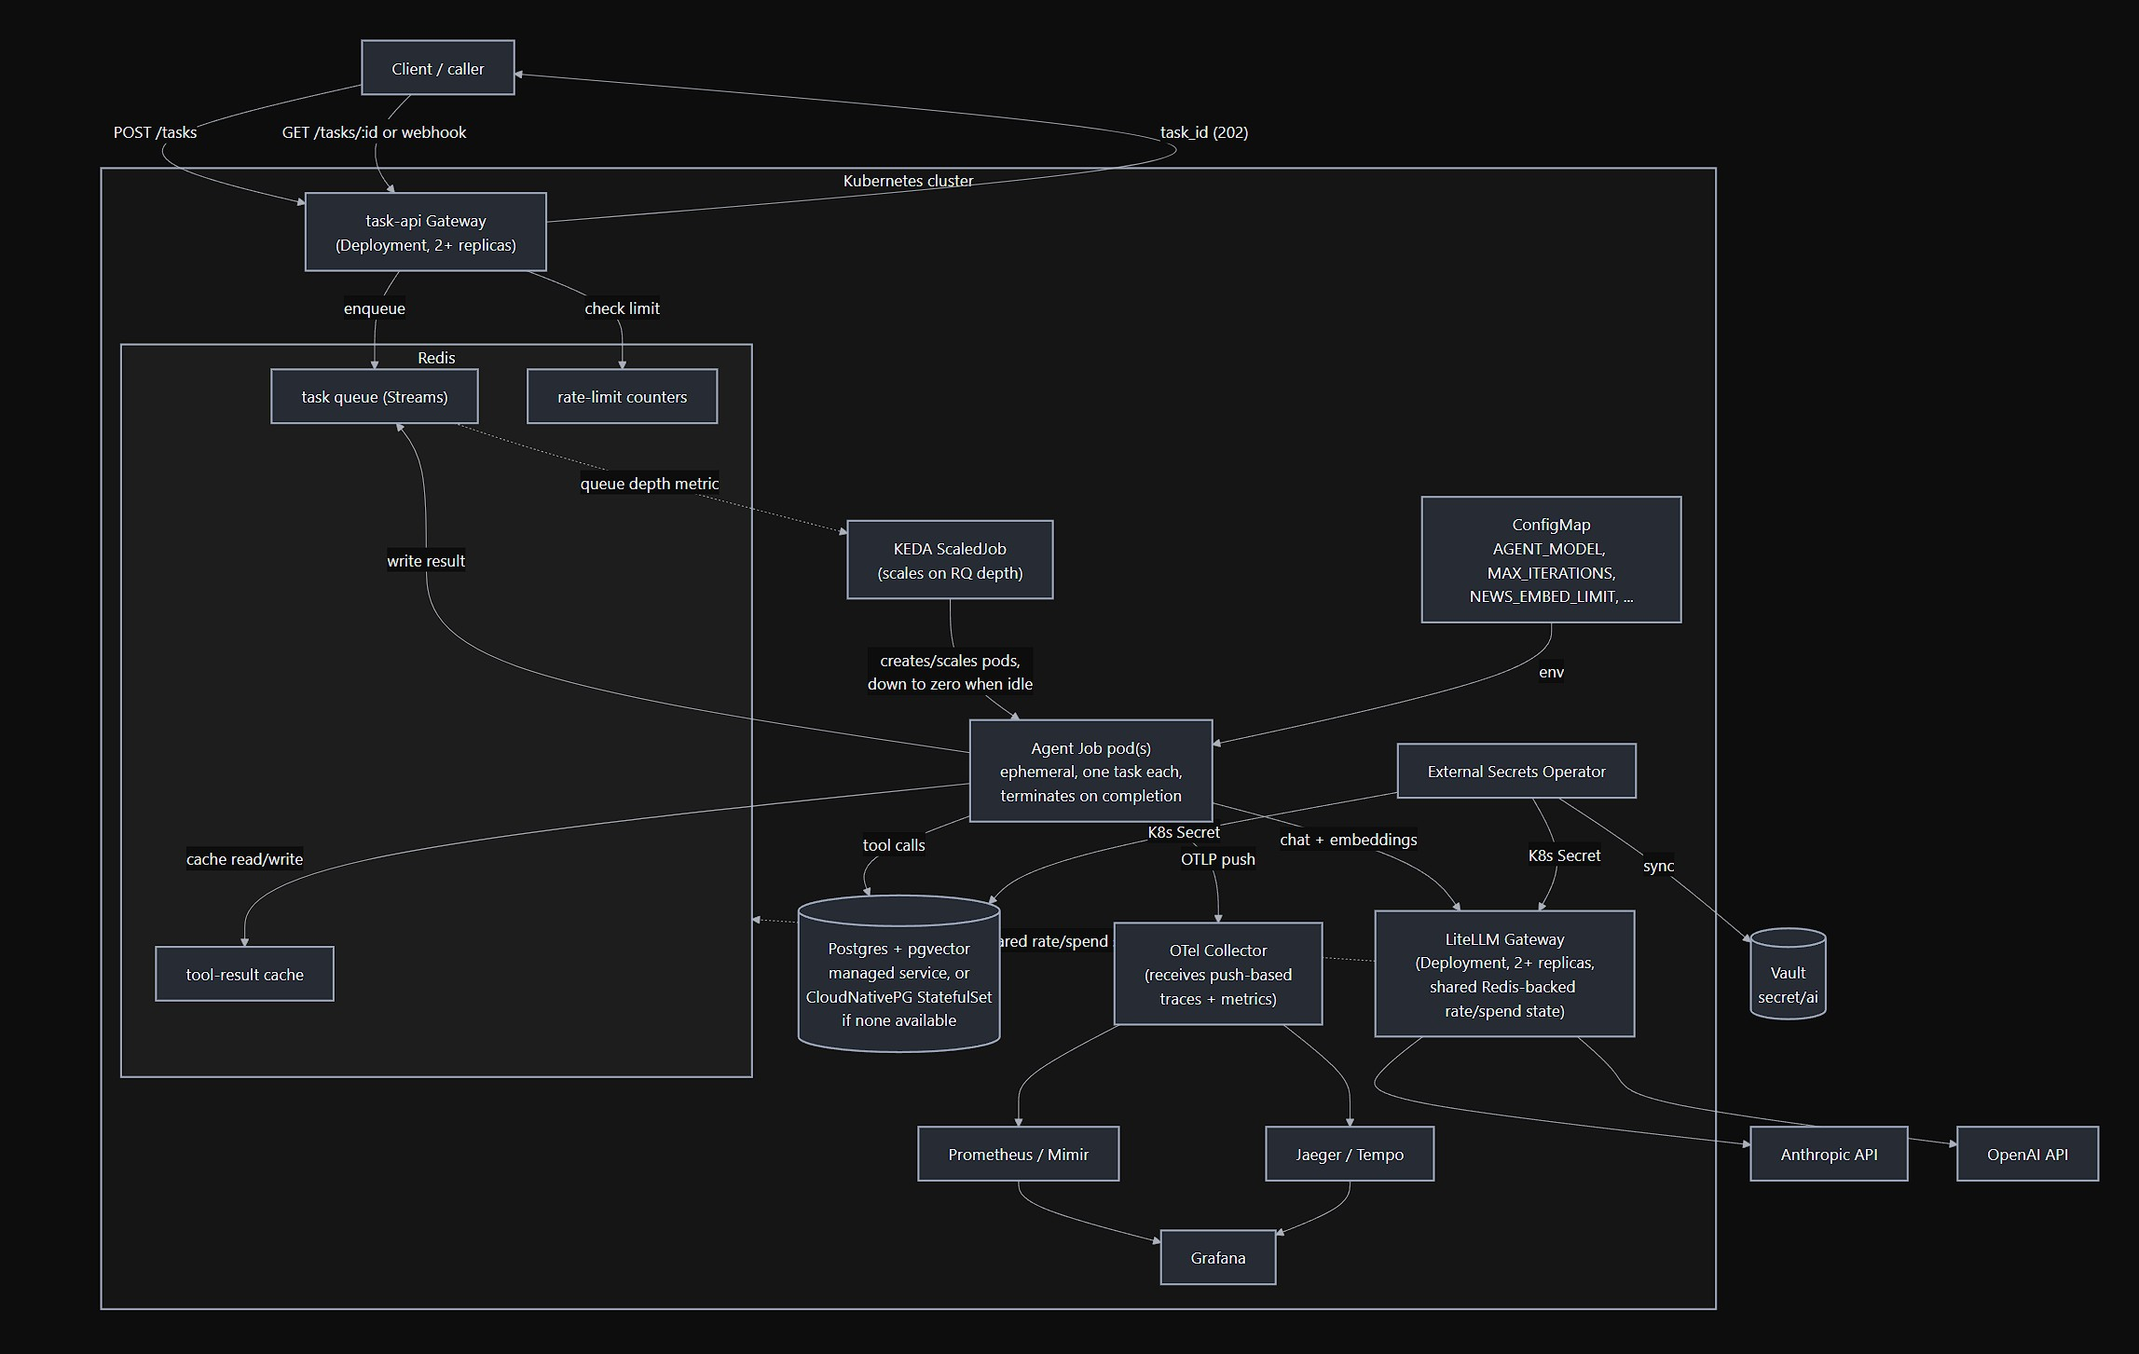
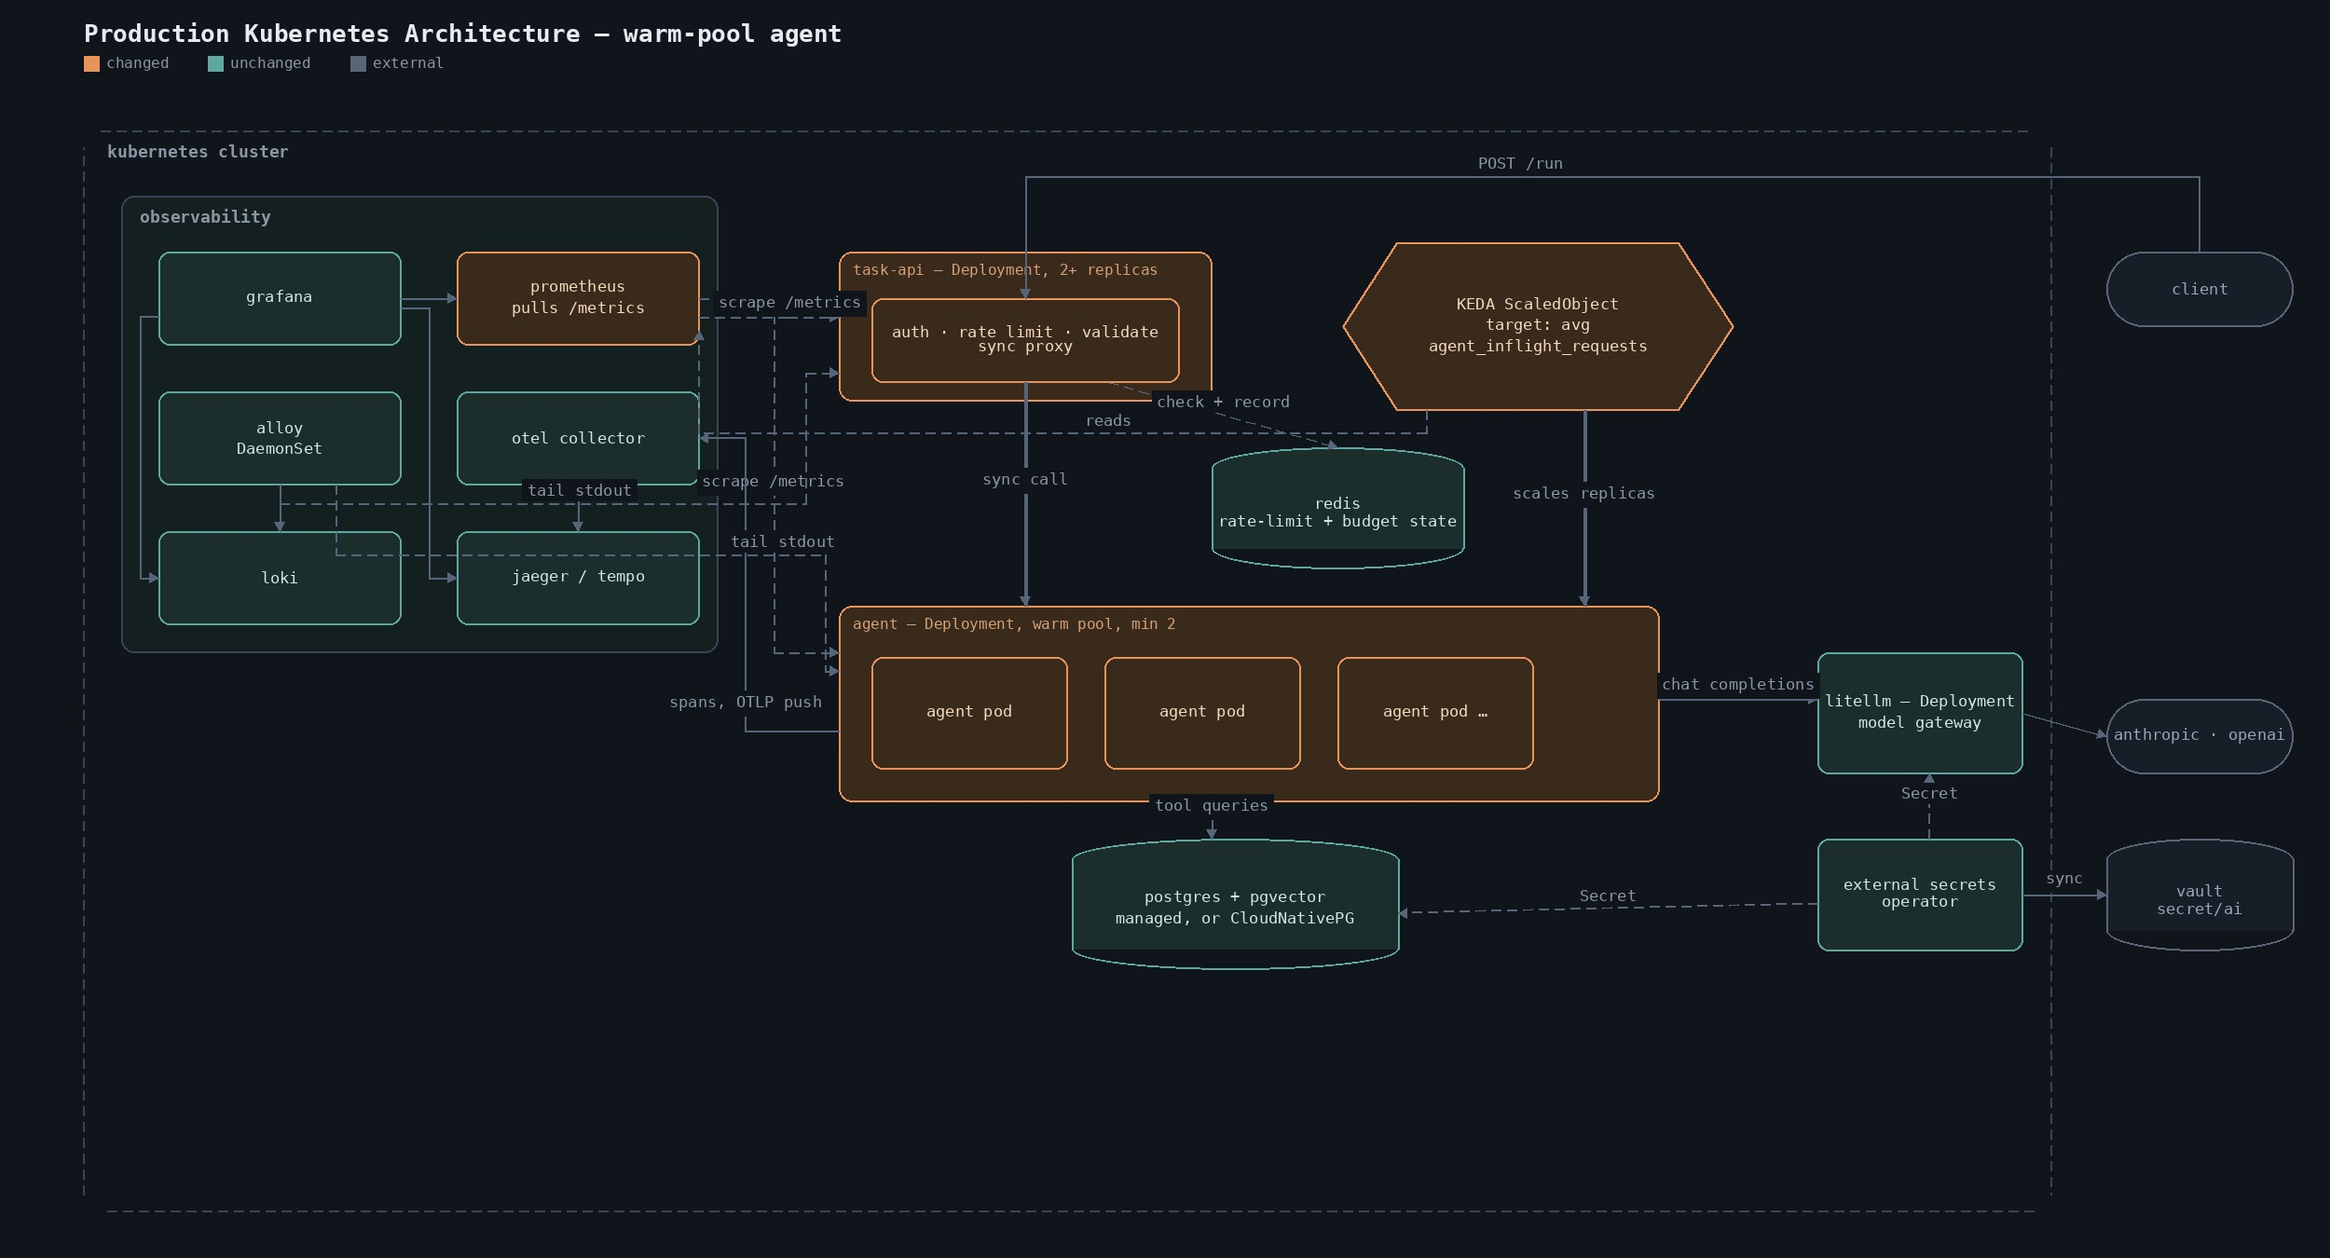
Redesign production K8s architecture around a warm agent pool
Ephemeral Job-per-task plus a Redis-queued task-api was adding real
cold-start latency per request. Replaces it with a Deployment warm pool
(min 2 replicas) autoscaled by KEDA's ScaledObject on live request
concurrency instead of queue depth, task-api simplified to a synchronous
proxy, and metrics collection reverted to Prometheus pull now that pods
are long-lived again. Regenerated the architecture diagram by hand after
the mermaid-to-image export lost every multi-line label's line break.

diff --git a/DECISIONS.md b/DECISIONS.md
@@ -60,23 +60,22 @@ toward a real production deployment.
 
 ## Production Kubernetes Architecture
 
-This section answers directly: given a real deployment target (not a single docker-compose host), what does this platform look like, and why. It supersedes the shape of the local demo in specific ways worth calling out up front — the local `agent` service is a **long-running FastAPI process** you `curl` repeatedly, because that's the simplest thing that proves the stack end-to-end in one command. In production the agent instead runs as **ephemeral, one-task-per-pod Kubernetes Jobs**, for reasons in the diagram below. These aren't in tension — the local demo optimizes for "reviewable in one command with minimal moving parts," production optimizes for "isolated, horizontally scalable, cost-proportional-to-load." Rewriting `agent_loop.py`/`tools.py` for this move is minimal: `run_task(model, task, date_from, date_to)` builds a fresh Strands `Agent` per call and holds no state across calls, which is exactly what makes it safe to run as a throwaway pod instead of a long-lived process.
->
-> **Note**: the actual Kubernetes deployment built from this section (`kubernetes/ai_stock_news_agent` in the home-lab repo) currently implements its own copy of the tool-calling loop, separate from this repo's `agent/`. The architecture described below (KEDA `ScaledJob`, `task-api`/worker split, etc.) doesn't depend on which agent-loop implementation runs inside the pod — Strands' `Agent` is just as stateless/poddable as any other — but the two copies aren't kept in sync automatically. Worth reconciling if that deployment is revisited.
+This section answers directly: given a real deployment target (not a single docker-compose host), what does this platform look like, and why. It keeps the same execution shape as the local demo on purpose — the local `agent` service is a **long-running FastAPI process** you `curl` repeatedly, and production is the same shape, just horizontally replicated and autoscaled instead of a single instance. A synchronous request/response API is the right fit here: a task is a multi-second, multi-tool-call round trip against an LLM provider, and a caller expects an answer on the connection it opened, not a poll loop. `run_task(model, task, date_from, date_to)` builds a fresh Strands `Agent` per call and holds no state across calls, which is exactly what makes it safe to serve many concurrent requests off a shared pool of identical replicas rather than isolating each one.
 
 ![Production Kubernetes architecture](k8s_architecture.jpg)
 
 | Decision | Choice | Why |
 |---|---|---|
-| Agent execution | **Ephemeral Kubernetes Job per task**, scaled by **KEDA's `ScaledJob`** watching Redis Streams queue depth, not a long-running `Deployment` + HPA | Three real wins over a persistent pool of agent replicas: (1) **isolation** — a task's entire process, including any accumulated conversation state, dies with the pod, so there's no cross-task state leakage to reason about; (2) **cost shape matches load** — KEDA scales to zero when the queue is empty, so idle time costs nothing, unlike a `Deployment` sized for peak; (3) **KEDA's `ScaledJob` is purpose-built for exactly this** (one job per queue item, scale count with backlog) — a generic HPA scales replica *count* off CPU/memory/custom metrics on a `Deployment`, which is the wrong primitive for "run N discrete units of work," not a queue-depth-driven job-per-task pattern. |
-| Task gateway (`task-api`) | Small persistent `Deployment` (2+ replicas) in front of the queue | Something has to accept HTTP, authenticate, rate-limit, and enqueue before an ephemeral Job can exist to do the work — this is the local demo's `/run` endpoint, minus the actual task execution, which moves to the Job. Returns a `task_id` immediately (202) rather than blocking — necessary once execution is async or a multi-minute multi-tool-call task would otherwise hold an HTTP connection open, which doesn't survive a load balancer's idle timeout at any real scale. |
-| Rate limiting | Redis-backed limiter (sliding window / token bucket, keyed by API key or tenant) in `task-api`, checked **before** enqueueing | Rejecting an over-limit request costs a Redis round-trip; rejecting it *after* a Job pod has already started and burned an LLM call costs real money and a scheduling slot. Cheap check first. Same Redis cluster (different key namespace) also backs LiteLLM's own shared rate-limit/spend state once LiteLLM is replicated — a single-instance LiteLLM's in-memory rate limiting stops being accurate the moment there's more than one replica. |
-| Secrets | **External Secrets Operator**, `SecretStore` pointed at this environment's Vault (`secret/ai`) | Direct K8s-native equivalent of what the local demo already does manually (`vault kv get secret/ai` → `.env`) — ESO syncs Vault paths into native `Secret` objects on an interval, so `ANTHROPIC_API_KEY`/`OPENAI_API_KEY`/DB credentials are never in a manifest, image, or ConfigMap, and rotate without a redeploy. Only `litellm` and the Postgres access layer mount these — the agent Job pods still never see provider keys directly, same isolation boundary as the local demo. |
-| Data store (pgvector) | **Managed Postgres with pgvector support if available** (RDS Postgres, AlloyDB, Cloud SQL, or similar all support the extension); **CloudNativePG-operated StatefulSet as the fallback**, not a bare StatefulSet | Self-hosting stateful Postgres (backups, WAL archiving, PITR, failover) is real, ongoing operational burden a managed service absorbs — use it when available. When it isn't (air-gapped, on-prem, or a home-lab-style environment like this one), a bare `StatefulSet` is the wrong tool because it has no leader election or automated failover built in; an operator like CloudNativePG (or Zalando's postgres-operator) provides that on top of the same StatefulSet primitive, which is what "self-hosted Postgres in k8s" should actually mean in production. |
+| Agent execution | **`Deployment` with a warm pool of replicas** (`minReplicas: 2`, never scaled to zero), horizontally autoscaled by **KEDA's `ScaledObject`** on live request concurrency, not CPU/memory | A generic CPU/memory-based autoscaler doesn't reflect real load here — the agent spends almost all of its time waiting on an LLM/tool call, not burning CPU, so CPU stays flat right up until requests start queuing. Scaling on concurrency (in-flight requests per pod) tracks actual load directly. Keeping the pool warm is deliberate: spinning up a fresh pod per task would reintroduce exactly the cold-start latency a synchronous API can't absorb, at the cost of always paying for at least `minReplicas` even at zero traffic. |
+| Autoscaling metric | KEDA's `prometheus` trigger targeting **average in-flight requests per pod** — a gauge (`agent_inflight_requests`) incremented when a task starts and decremented when it finishes | Task duration varies widely — a single fundamentals lookup finishes in a couple seconds, a multi-topic task doing several tool-call rounds takes much longer — so request *rate* doesn't map cleanly to "how loaded is a pod" the way concurrency does. `/run` is a synchronous FastAPI route served from Starlette's bounded thread pool per pod; the KEDA target sits comfortably below that ceiling so pods scale out before they start queuing internally, not after. |
+| Task gateway (`task-api`) | Small stateless `Deployment` (2+ replicas) in front of the agent pool: authenticates, rate-limits, validates, then proxies synchronously to an agent pod | Keeps auth/rate-limit logic out of the pods actually running LLM calls, and scales independently and cheaply on its own — it does no LLM work, so its capacity needs look nothing like the agent pool's. Also the natural place for request-level concerns (consistent error shaping, structured access logging) that shouldn't be duplicated inside every agent replica. |
+| Rate limiting | Redis-backed limiter (sliding window / token bucket, keyed by API key or tenant) in `task-api`, checked before the request reaches an agent pod | Rejecting an over-limit request costs a Redis round-trip; letting it through to burn an LLM call before rejecting costs real money. Cheap check first. Same Redis cluster (different key namespace) also backs LiteLLM's own shared rate-limit/spend state once LiteLLM is replicated — a single-instance LiteLLM's in-memory rate limiting stops being accurate the moment there's more than one replica. |
+| Secrets | **External Secrets Operator**, `SecretStore` pointed at this environment's Vault (`secret/ai`) | Direct K8s-native equivalent of what the local demo already does manually (`vault kv get secret/ai` → `.env`) — ESO syncs Vault paths into native `Secret` objects on an interval, so `ANTHROPIC_API_KEY`/`OPENAI_API_KEY`/DB credentials are never in a manifest, image, or ConfigMap, and rotate without a redeploy. Only `litellm` and the Postgres access layer mount these — the agent pods still never see provider keys directly, same isolation boundary as the local demo. |
+| Data store (pgvector) | **Managed Postgres with pgvector support if available** (RDS Postgres, AlloyDB, Cloud SQL, or similar all support the extension); **CloudNativePG-operated StatefulSet as the fallback**, not a bare StatefulSet | Self-hosting stateful Postgres (backups, WAL archiving, PITR, failover) is real, ongoing operational burden a managed service absorbs — use it when available. When it isn't (air-gapped, on-prem, or another self-managed environment), a bare `StatefulSet` is the wrong tool because it has no leader election or automated failover built in; an operator like CloudNativePG (or Zalando's postgres-operator) provides that on top of the same StatefulSet primitive, which is what "self-hosted Postgres in k8s" should actually mean in production. |
 | Agent configuration | `ConfigMap` for everything non-secret — `AGENT_MODEL`, `MAX_ITERATIONS`, `TOOL_TIMEOUT_SECONDS`, `NEWS_EMBED_LIMIT`, feature flags | Separates "how the agent behaves" from "what it authenticates with" (the ESO-synced `Secret`), and makes tuning knobs we found genuinely necessary during local testing — e.g. `MAX_ITERATIONS` being tight for multi-topic tasks (see Safety choices above) — a `kubectl apply`/GitOps change, not a rebuild. Naturally supports per-environment overlays (Kustomize) for dev/staging/prod without image variants. |
 | Observability delivery | **Reuse the org's existing Prometheus/Grafana/Jaeger/Loki (or Mimir/Tempo/Loki) if one already exists**; deploy our own into the cluster (`kube-prometheus-stack` + Jaeger/Tempo Operator + Loki via Helm) only if none is available | Running a second, disconnected observability stack when a platform-wide one already exists just fragments where people look during an incident — worse than not having dashboards at all. Only stand up a dedicated instance for this workload if there's genuinely nothing to plug into. |
-| Metrics transport for ephemeral pods | Push metrics via **OTLP to the OTel Collector** (OTel Metrics SDK), not pull-based Prometheus `/metrics` scraping | The local demo's Prometheus scrapes the long-running `agent` service's `/metrics` on an interval — that model breaks for a Job pod that might complete and terminate *between* scrape intervals, silently losing its metrics. Traces already push over OTLP and need no change; switching metrics to the same push path through the same collector unifies both signals through one export mechanism that works regardless of pod lifetime. |
-| Log shipping for ephemeral pods | **Grafana Alloy as a `DaemonSet`** (one per node, tailing every pod's stdout via the container runtime) rather than the local demo's single Alloy instance watching the Docker socket | The local demo's `alloy` container works by discovering containers on one Docker host — there's no single "Docker socket" in a multi-node cluster. A `DaemonSet` is the standard k8s pattern for "run one log-shipping agent per node, covering every pod scheduled to it," and it's the same Alloy binary/config philosophy, just a different discovery mechanism (Kubernetes pod discovery instead of `discovery.docker`). Loki's local single-binary/filesystem-storage setup also needs to move to a real object store (S3/GCS) with an actual retention policy at this point — unbounded local disk doesn't work past a demo. |
+| Metrics collection | **Prometheus pulls `/metrics` from every pod** (agent and `task-api`), via standard Kubernetes pod service discovery | Same pull model as the local demo — pods are long-lived, so there's no risk of a pod completing and disappearing between scrape intervals. Traces are the one signal that's push-based regardless: they go over OTLP to the OTel Collector because a trace is an event stream, not a periodic snapshot — that doesn't depend on how the agent is deployed. |
+| Log shipping | **Grafana Alloy as a `DaemonSet`** (one per node, tailing every pod's stdout via the container runtime) rather than the local demo's single Alloy instance watching the Docker socket | The local demo's `alloy` container works by discovering containers on one Docker host — there's no single "Docker socket" in a multi-node cluster. A `DaemonSet` is the standard k8s pattern for "run one log-shipping agent per node, covering every pod scheduled to it," and it's the same Alloy binary/config philosophy, just a different discovery mechanism (Kubernetes pod discovery instead of `discovery.docker`). Loki's local single-binary/filesystem-storage setup also needs to move to a real object store (S3/GCS) with an actual retention policy at this point — unbounded local disk doesn't work past a demo. |
 | Row/column-level security | **Not implemented, deliberately flagged as a future extension, not a current gap** | Postgres native `ROW LEVEL SECURITY` + per-column `GRANT`/`REVOKE` is the right mechanism *once* there's a real per-caller identity flowing through the system — it needs (1) an auth layer in `task-api` establishing who's calling, (2) that identity propagated into the DB session (e.g. `SET LOCAL app.user_id` per request, RLS policies keyed off it), neither of which exist today. It's also more naturally a fit for **siloed per-tenant data** (different customers seeing only their own subset) than for today's single shared public NYSE/news dataset, where every caller is meant to see the same data. Worth designing for when the platform starts serving genuinely separated data per customer — not worth building against a dataset that doesn't need it yet. |
 
 ## Adapting for scale (traffic, not just data volume)
@@ -86,4 +85,4 @@ Beyond the architecture above, at genuinely high concurrent volume:
 1. **Postgres read replicas** for tool query traffic; the agent's read-only role (`agent_ro`) already makes this a connection-routing change, not a permissions change.
 2. **Cache layer** (the `RC` Redis namespace in the diagram) for tool results that are expensive and cacheable — `get_fundamentals` for a given ticker+period never changes once published, so caching it cuts both latency and DB load under concurrent traffic.
 3. **Trace sampling** becomes necessary once request volume is high enough that 100%-sampled traces would overwhelm the tracing backend's storage/ingest — head-based (sample a % of tasks) or tail-based (always keep errors/slow traces, sample the rest) depending on whether debugging rare failures or understanding typical latency matters more.
-4. **KEDA scaling bounds**: set a `maxReplicaCount` on the `ScaledJob` tied to actual LLM provider rate limits, not just cluster capacity — scaling agent Jobs faster than litellm/the provider can actually serve just shifts the bottleneck to 429s instead of a queue, with worse observability into what's actually happening.
+4. **Autoscaling bounds**: set a `maxReplicaCount` on the agent `ScaledObject` tied to actual LLM provider rate limits, not just cluster capacity — scaling the pool faster than litellm/the provider can actually serve just shifts the bottleneck to 429s (HTTP "too many requests" — the provider's own rate-limit rejection) instead of smooth backpressure, with worse observability into what's actually happening.
